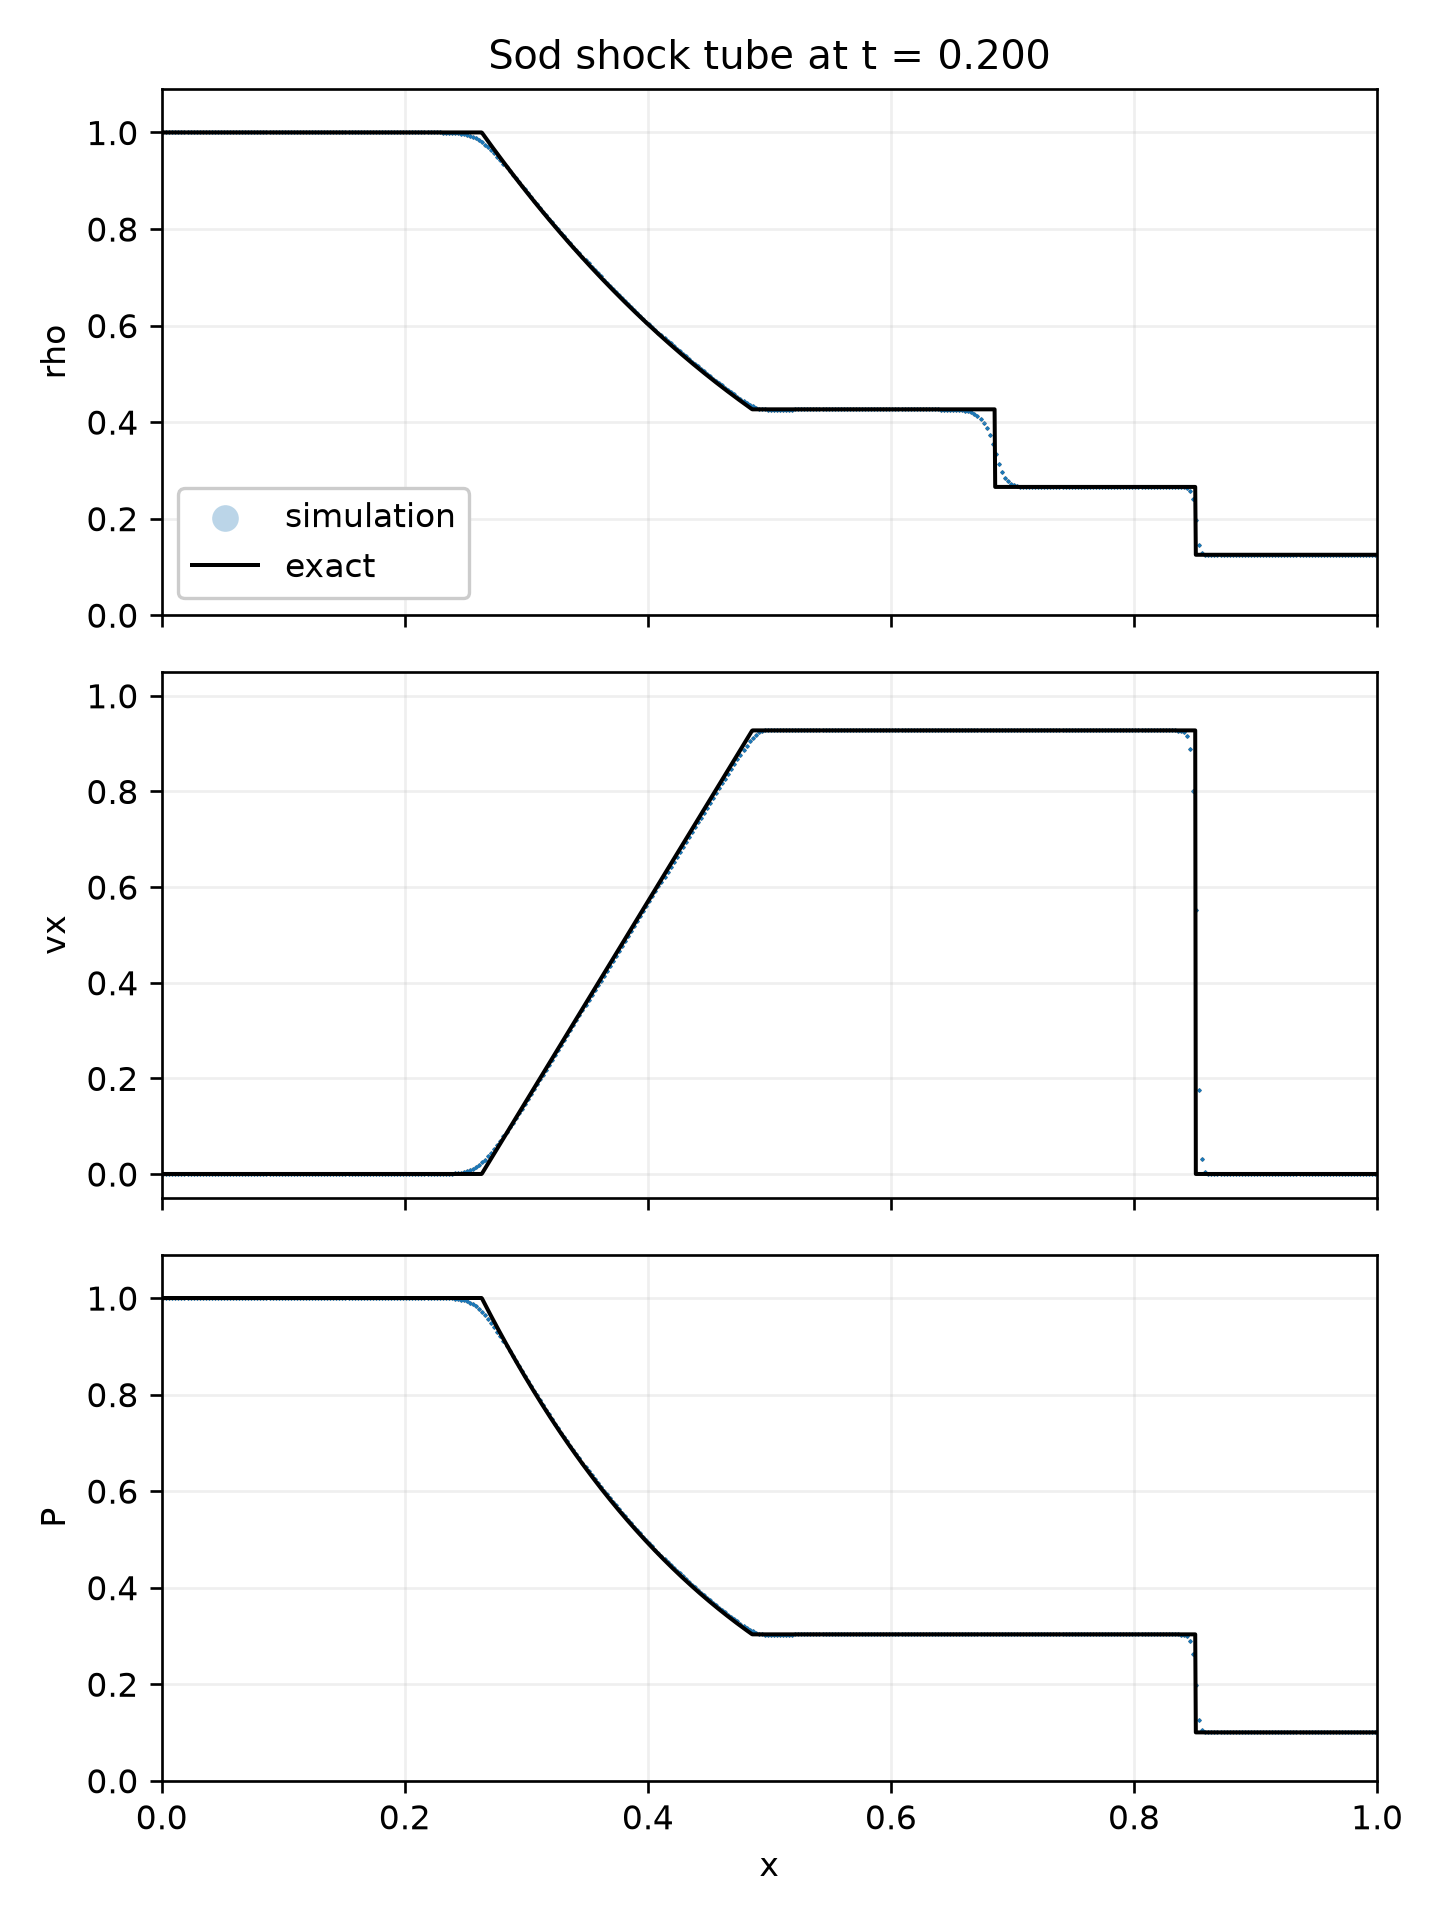
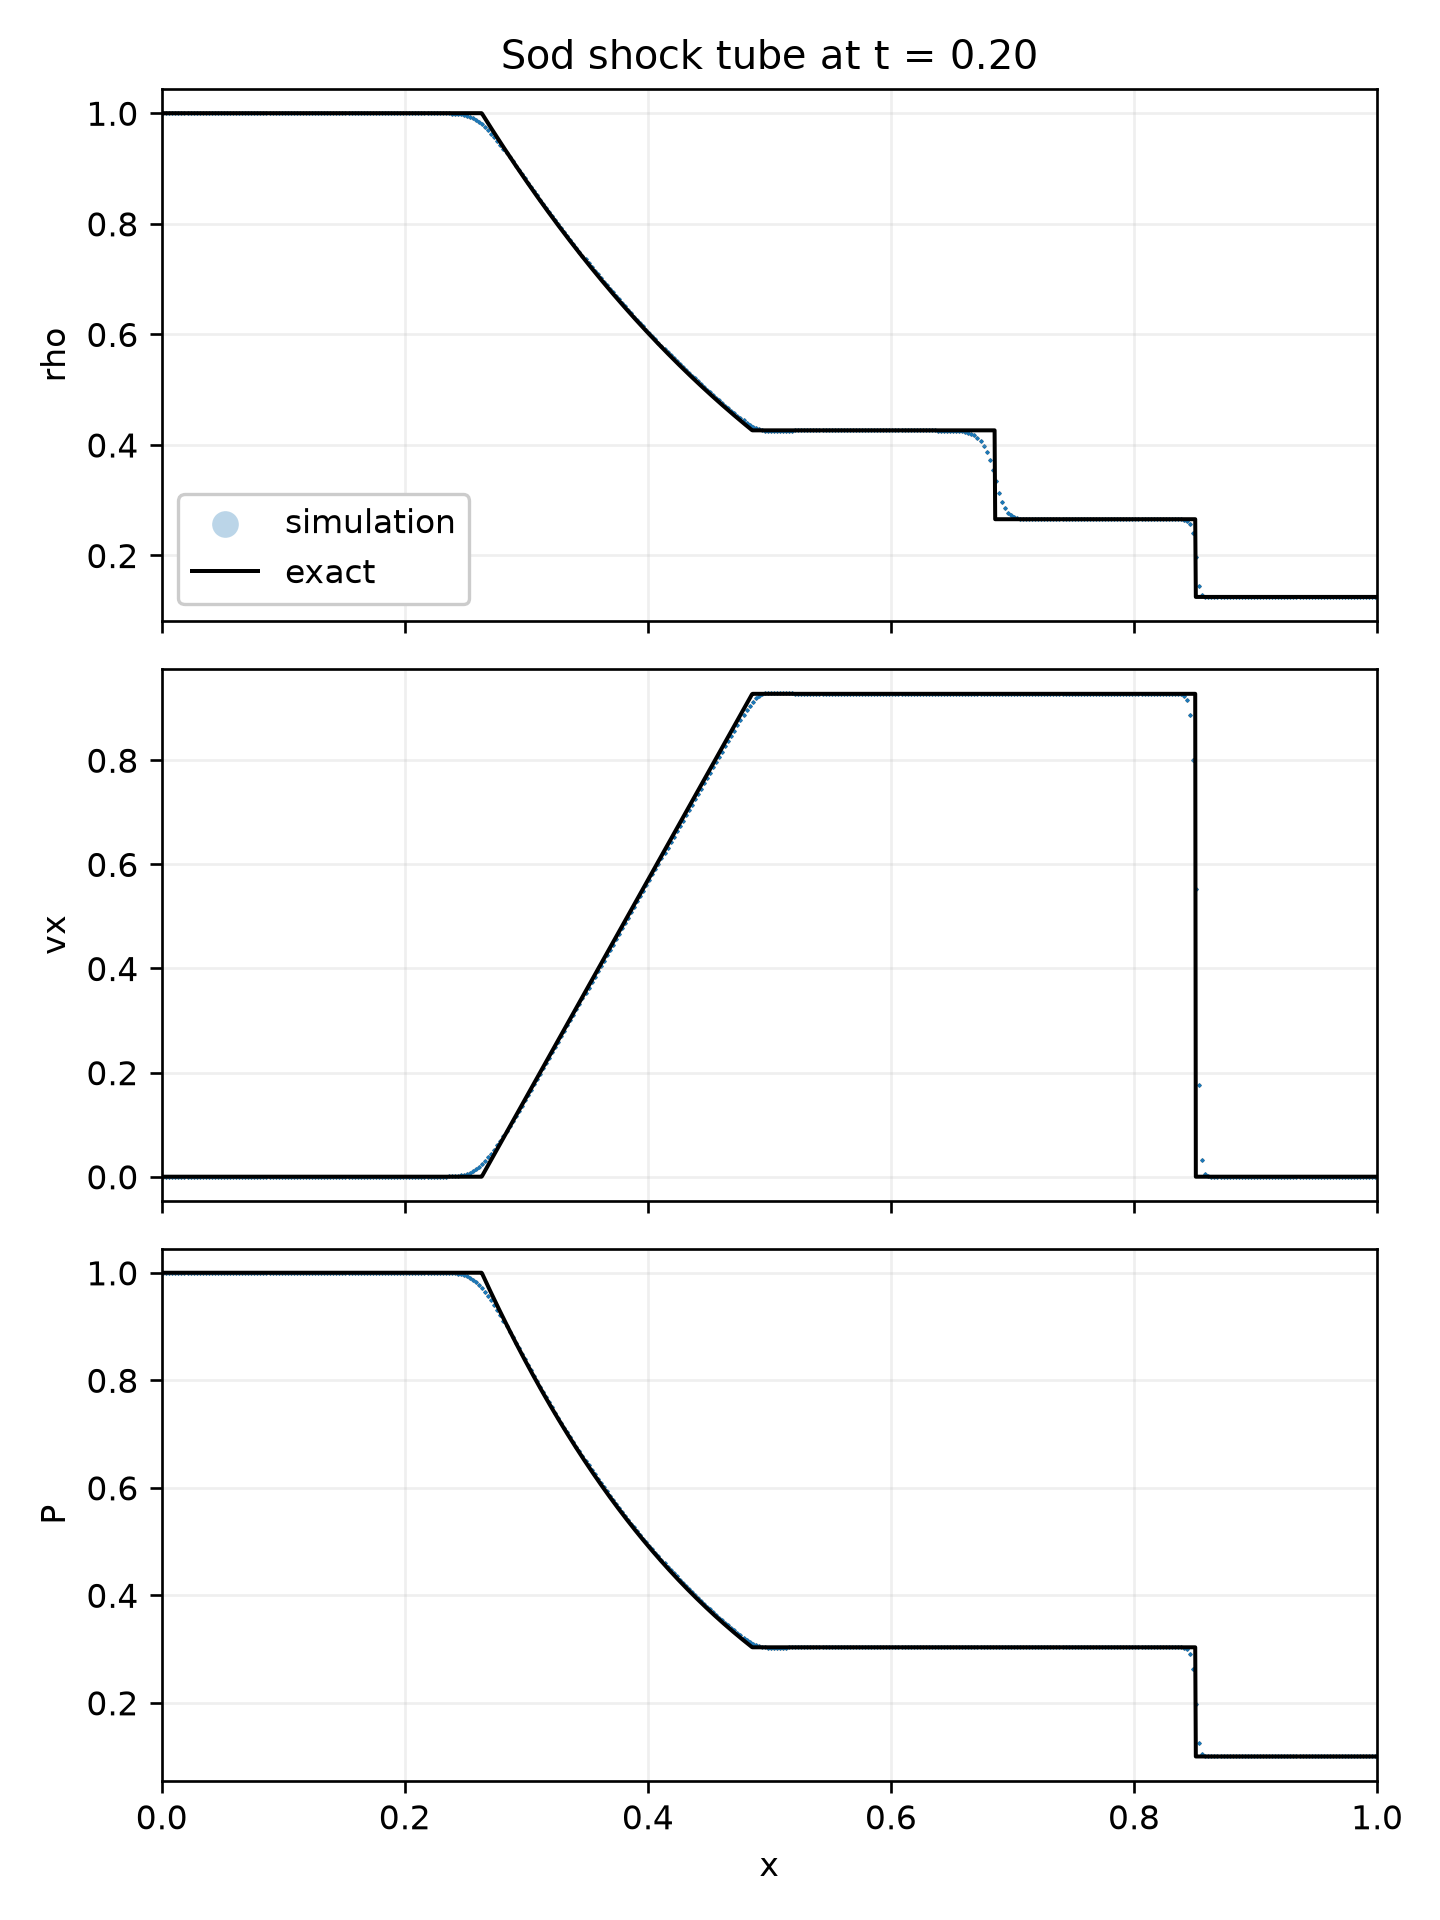
update sod gif

diff --git a/examples/sod/sod.py b/examples/sod/sod.py
@@ -1,7 +1,3 @@
-import contextlib
-import glob
-import io
-import os
 import time
 
 import jax.numpy as jnp
@@ -174,9 +170,9 @@ def exact_riemann(x, t, gamma=GAMMA, x0=X_DIAPHRAGM):
     return rho, vx, pr, p_star, u_star
 
 
-def draw_profiles(sim, axes):
+def make_plot(sim):
     """
-    Draw rho, vx and P against x on the three given axes.
+    Plot rho, vx and P against x.
     """
     X, _ = sim.mesh
     x = np.asarray(X).ravel()
@@ -186,12 +182,13 @@ def draw_profiles(sim, axes):
     rho_e, vx_e, p_e, _, _ = exact_riemann(x_exact, t)
 
     fields = [
-        ("rho", np.asarray(sim.state["rho"]).ravel(), rho_e, (0.0, 1.09)),
-        ("vx", np.asarray(sim.state["vx"]).ravel(), vx_e, (-0.05, 1.05)),
-        ("P", np.asarray(sim.state["P"]).ravel(), p_e, (0.0, 1.09)),
+        ("rho", np.asarray(sim.state["rho"]).ravel(), rho_e),
+        ("vx", np.asarray(sim.state["vx"]).ravel(), vx_e),
+        ("P", np.asarray(sim.state["P"]).ravel(), p_e),
     ]
 
-    for ax, (name, sim_vals, exact_vals, ylim) in zip(axes, fields):
+    _, axes = plt.subplots(3, 1, figsize=(6, 8), dpi=80, sharex=True)
+    for ax, (name, sim_vals, exact_vals) in zip(axes, fields):
         ax.scatter(
             x,
             sim_vals,
@@ -203,59 +200,15 @@ def draw_profiles(sim, axes):
         )
         ax.plot(x_exact, exact_vals, "k-", lw=1.2, label="exact")
         ax.set_ylabel(name)
-        ax.set_ylim(*ylim)
         ax.grid(alpha=0.2)
 
     axes[0].legend(loc="lower left", framealpha=1.0, markerscale=8)
-    axes[0].set_title(f"Sod shock tube at t = {t:.3f}")
+    axes[0].set_title(f"Sod shock tube at t = {t:.2f}")
     axes[-1].set_xlabel("x")
     axes[-1].set_xlim(0.0, 1.0)
-
-
-def make_plot(sim, filename="output.png", show=True):
-    _, axes = plt.subplots(3, 1, figsize=(6, 8), dpi=80, sharex=True)
-    draw_profiles(sim, axes)
     plt.tight_layout()
-    plt.savefig(filename, dpi=240 if show else 80)
-    if show:
-        plt.show()
-    plt.close()
-
-
-def run_simulation(sim):
-    """
-    Evolve the simulation and create plots of the profile
-    """
-    if not sim.params["output"]["save"]:
-        sim.run()
-        return
-
-    checkpoint_dir = sim.params["output"]["path"]
-    num_checkpoints = sim.params["output"]["num_checkpoints"]
-    os.makedirs(checkpoint_dir, exist_ok=True)
-    for stale in glob.glob(os.path.join(checkpoint_dir, "*.png")):
-        os.remove(stale)
-
-    nt_total = sim.params["time"]["num_timesteps"]
-    t_total = sim.params["time"]["span"]
-
-    # step forward in equal chunks, with the library's own checkpointing off
-    sim.params["output"]["save"] = False
-    sim.params["time"]["num_timesteps"] = nt_total // num_checkpoints
-    sim.params["time"]["span"] = t_total / num_checkpoints
-
-    make_plot(sim, os.path.join(checkpoint_dir, "sod000.png"), show=False)
-    steps = 0
-    for i in range(1, num_checkpoints + 1):
-        with contextlib.redirect_stdout(io.StringIO()):
-            sim.run()
-        steps += int(sim.steps_taken)
-        make_plot(sim, os.path.join(checkpoint_dir, f"sod{i:03d}.png"), show=False)
-
-    sim.params["output"]["save"] = True
-    sim.params["time"]["num_timesteps"] = nt_total
-    sim.params["time"]["span"] = t_total
-    sim.state["steps_taken"] = steps
+    plt.savefig("output.png", dpi=240)
+    plt.show()
 
 
 def main():
@@ -263,7 +216,7 @@ def main():
 
     # Evolve the system
     t0 = time.time()
-    run_simulation(sim)
+    sim.run()
     print("Run time (s): ", time.time() - t0)
     print("Steps taken:", sim.steps_taken)
 
